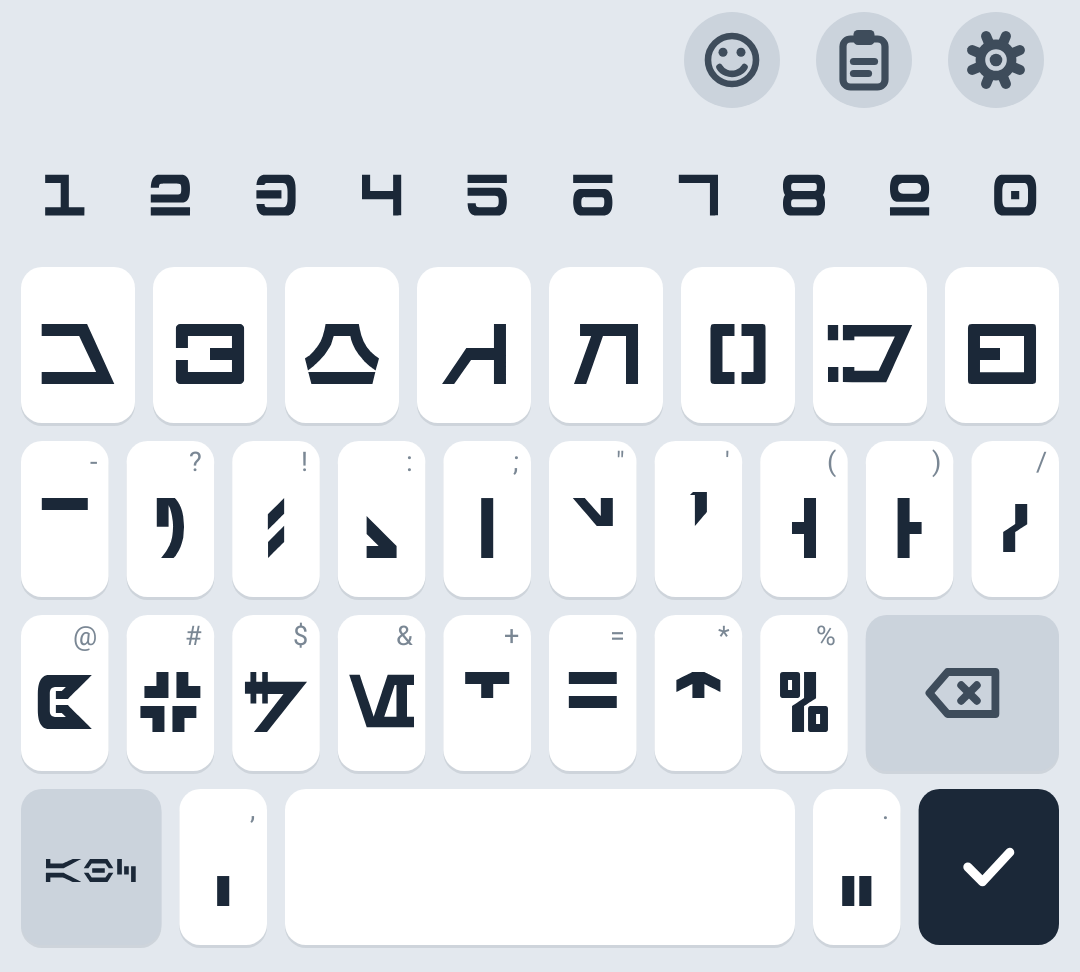
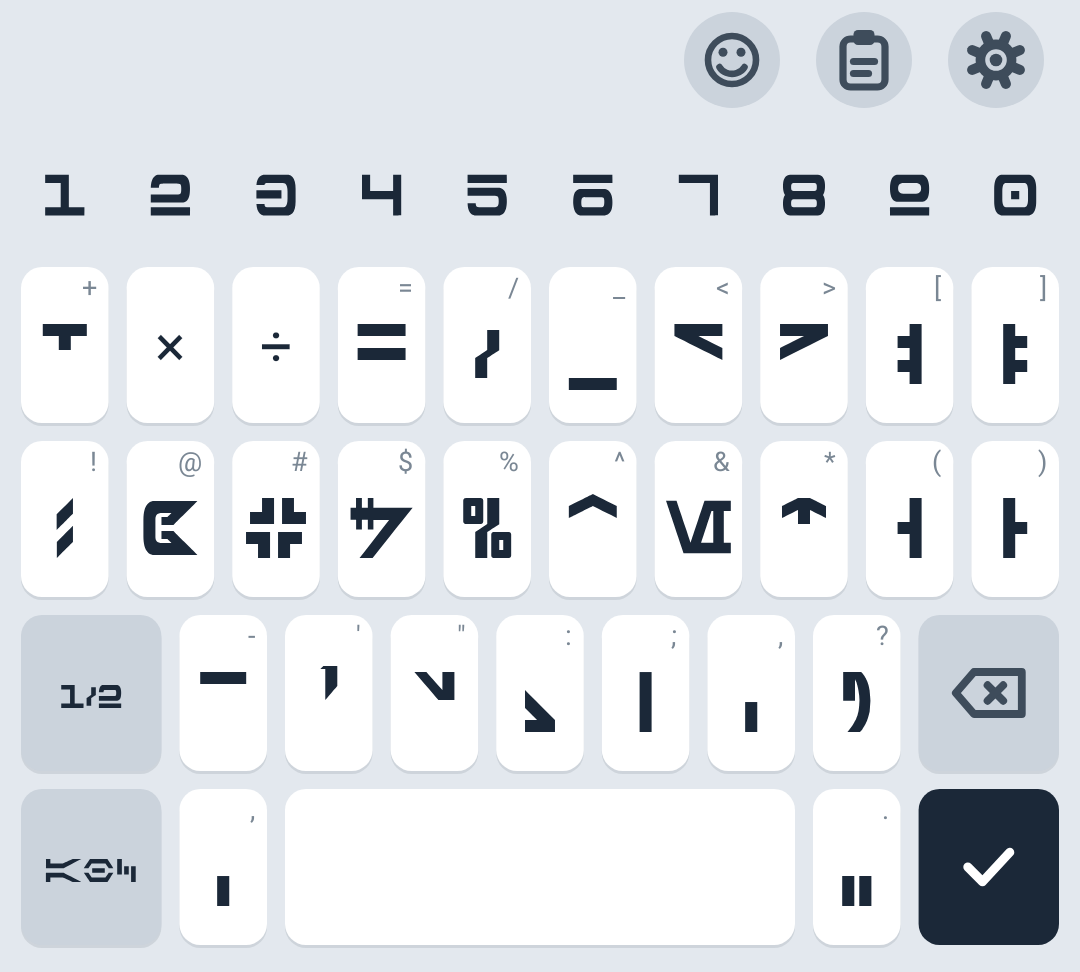
1.8.1: página ?123 con la distribución de Samsung Keyboard y segunda página 2/2
- Signos 1/2: 1234567890 / + × ÷ = / _ < > [ ] / ! @ # $ % ^ & * ( ) / 1/2 - ' " : ; , ? ⌫, con . en la fila
  inferior, como en Samsung Keyboard; alternativas por pulsación larga (¡ ¿ € ± ≠ ≤ ≥ { } \ – ‘ “ ‰ •).
- Signos 2/2: dígrafos Aurebesh, ¿ ¡ « » { } | \ ~ • y £ € ¥ ° © ® ™; tecla 1/2 ↔ 2/2 en Aurebesh.
- Prueba: posiciones de , ; : ? y ., tecleo de signos y cambio de página; captura simbolos_2.png.

Claude-Session: https://claude.ai/code/session_0169nLUo7BxaBWms1Bxz2s9J

diff --git a/app/src/main/java/com/aurebesh/teclado/AurebeshKeyboardView.java b/app/src/main/java/com/aurebesh/teclado/AurebeshKeyboardView.java
@@ -33,6 +33,7 @@ public final class AurebeshKeyboardView extends View {
     static final int CODE_TEXT = 0;
     static final int CODE_SHIFT = -1;
     static final int CODE_MODE = -2;
+    static final int CODE_PAGE = -3;      // 1/2 <-> 2/2 en la pagina de signos
     static final int CODE_ENTER = -4;
     static final int CODE_DELETE = -5;
     static final int CODE_SPACE = -6;
@@ -79,7 +80,8 @@ public final class AurebeshKeyboardView extends View {
 
     private Listener listener;
     private final List<List<Key>> letters = new ArrayList<>();
-    private final List<List<Key>> symbols = new ArrayList<>();
+    private final List<List<Key>> symbols = new ArrayList<>();    // signos 1/2 (como Samsung Keyboard)
+    private final List<List<Key>> symbols2 = new ArrayList<>();   // signos 2/2: digrafos, ¿ ¡ « » y mas simbolos
     private List<List<Key>> current;
 
     private boolean shift = false;
@@ -185,11 +187,12 @@ public final class AurebeshKeyboardView extends View {
         applyTheme();
         if (numberRow != numbers) {
             numberRow = numbers;
-            boolean onSymbols = current == symbols;
+            List<List<Key>> was = current;
             letters.clear();
             symbols.clear();
+            symbols2.clear();
             buildLayouts();
-            current = onSymbols ? symbols : letters;
+            current = was == symbols ? symbols : was == symbols2 ? symbols2 : letters;
             requestLayout();
         }
         if (showStrip != strip) {
@@ -226,11 +229,12 @@ public final class AurebeshKeyboardView extends View {
         String l = "en".equals(lang) ? "en" : "es";
         if (l.equals(language)) return;
         language = l;
-        boolean onSymbols = current == symbols;
+        List<List<Key>> was = current;
         letters.clear();
         symbols.clear();
+        symbols2.clear();
         buildLayouts();
-        current = onSymbols ? symbols : letters;
+        current = was == symbols ? symbols : was == symbols2 ? symbols2 : letters;
         requestLayout();
         invalidate();
     }
@@ -276,11 +280,12 @@ public final class AurebeshKeyboardView extends View {
     }
 
     private void rebuildLayouts() {
-        boolean onSymbols = current == symbols;
+        List<List<Key>> was = current;
         letters.clear();
         symbols.clear();
+        symbols2.clear();
         buildLayouts();
-        current = onSymbols ? symbols : letters;
+        current = was == symbols ? symbols : was == symbols2 ? symbols2 : letters;
         requestLayout();
         invalidate();
     }
@@ -357,15 +362,26 @@ public final class AurebeshKeyboardView extends View {
         letters.add(r3);
         bottomRow(letters, "?123");
 
+        // Signos 1/2: la misma distribucion que Samsung Keyboard (, ; : ? en la cuarta fila, . abajo)
         symbols.add(digitsRow());
+        row(symbols, sym("+", 1f, "\u00b1"), sym("\u00d7", 1f), sym("\u00f7", 1f), sym("=", 1f, "\u2260"), sym("/", 1f, "\\"),
+                sym("_", 1f), sym("<", 1f, "\u2264"), sym(">", 1f, "\u2265"), sym("[", 1f, "{"), sym("]", 1f, "}"));
+        row(symbols, sym("!", 1f, "\u00a1"), sym("@", 1f), sym("#", 1f), sym("$", 1f, "\u20ac"), sym("%", 1f, "\u2030"),
+                sym("^", 1f), sym("&", 1f), sym("*", 1f, "\u2022"), sym("(", 1f), sym(")", 1f));
+        row(symbols, special("1/2", CODE_PAGE, 1.5f), sym("-", 1f, "\u2013"), sym("'", 1f, "\u2018"), sym("\"", 1f, "\u201c"),
+                sym(":", 1f), sym(";", 1f), sym(",", 1f), sym("?", 1f, "\u00bf"), special("", CODE_DELETE, 1.5f));
+        bottomRow(symbols, "abc");
+
+        // Signos 2/2: digrafos Aurebesh, signos del espanol y simbolos menos frecuentes
+        symbols2.add(digitsRow());
         List<Key> dig = new ArrayList<>();
         for (String d : Glyphs.DIGRAPHS) dig.add(new Key(d, d, d, null, CODE_TEXT, 1.25f));
-        symbols.add(dig);
-        row(symbols, sym("-", 1f, "_"), sym("?", 1f, "\u00bf"), sym("!", 1f, "\u00a1"), sym(":", 1f), sym(";", 1f),
-                sym("\"", 1f, "\u00ab"), sym("'", 1f, "\u00bb"), sym("(", 1f, "["), sym(")", 1f, "]"), sym("/", 1f, "\\"));
-        row(symbols, sym("@", 1f), sym("#", 1f, "~"), sym("$", 1f, "\u20ac"), sym("&", 1f, "|"), sym("+", 1f),
-                sym("=", 1f), sym("*", 1f), sym("%", 1f), special("", CODE_DELETE, 2f));
-        bottomRow(symbols, "abc");
+        symbols2.add(dig);
+        row(symbols2, sym("\u00bf", 1f), sym("\u00a1", 1f), sym("\u00ab", 1f), sym("\u00bb", 1f), sym("{", 1f), sym("}", 1f),
+                sym("|", 1f), sym("\\", 1f), sym("~", 1f), sym("\u2022", 1f));
+        row(symbols2, special("2/2", CODE_PAGE, 1.5f), sym("\u00a3", 1f), sym("\u20ac", 1f), sym("\u00a5", 1f), sym("\u00b0", 1f),
+                sym("\u00a9", 1f), sym("\u00ae", 1f), sym("\u2122", 1f), special("", CODE_DELETE, 1.5f));
+        bottomRow(symbols2, "abc");
     }
 
     private void bottomRow(List<List<Key>> layout, String modeLabel) {
@@ -380,6 +396,12 @@ public final class AurebeshKeyboardView extends View {
         layout.add(r);
     }
 
+    /** Tecla de funcion del teclado actual con ese codigo (para pruebas). */
+    Key keyFor(int code) {
+        for (List<Key> row : current) for (Key k : row) if (k.code == code) return k;
+        return null;
+    }
+
     /** Tecla del teclado actual que escribe {@code output} (para pruebas). */
     Key keyFor(String output) {
         for (List<Key> row : current) for (Key k : row) if (output.equals(k.output)) return k;
@@ -390,7 +412,7 @@ public final class AurebeshKeyboardView extends View {
 
     private float stripHeight() { return toolbar || showStrip || suggestionBar ? 40 * dp : 4 * dp; }
     private boolean isDigitRow(List<List<Key>> layout, int ri) {
-        return ri == 0 && (numberRow || layout == symbols);
+        return ri == 0 && (numberRow || layout == symbols || layout == symbols2);
     }
 
     /** En apaisado las filas son mas bajas para no tapar media pantalla. */
@@ -417,6 +439,7 @@ public final class AurebeshKeyboardView extends View {
         super.onLayout(changed, l, t, r, b);
         layoutKeys(letters);
         layoutKeys(symbols);
+        layoutKeys(symbols2);
     }
 
     private void layoutKeys(List<List<Key>> layout) {
@@ -499,7 +522,7 @@ public final class AurebeshKeyboardView extends View {
                     textPaint.setTextSize(19 * dp);
                     c.drawText(k.label, cx, cy + 7 * dp, textPaint);
                 }
-                boolean symbolKey = current == symbols && k.glyph != null && !digitRow
+                boolean symbolKey = current != letters && k.glyph != null && !digitRow
                         && k.label.length() == 1 && !Character.isLetterOrDigit(k.label.charAt(0));
                 if (symbolKey) {                                 // leyenda del signo en la pagina ?123
                     hintPaint.setTextSize(9 * sp);
@@ -521,7 +544,8 @@ public final class AurebeshKeyboardView extends View {
                 }
                 break;
             case CODE_MODE:
-                // "?123" / "abc" escritos en Aurebesh pequeño
+            case CODE_PAGE:
+                // "?123" / "abc" / "1/2" escritos en Aurebesh pequeño
                 drawMiniWord(c, k.label, cx, cy, 10 * dp);
                 break;
             case CODE_SHIFT: drawShift(c, cx, cy); break;
@@ -770,7 +794,7 @@ public final class AurebeshKeyboardView extends View {
 
     /** Iconos redondos a la derecha: emojis, portapapeles y, en ?123, ajustes. Devuelve el limite izquierdo. */
     private float drawToolbar(Canvas c) {
-        int n = current == symbols ? 3 : 2;
+        int n = current != letters ? 3 : 2;
         float cell = 44 * dp, cy = stripHeight() / 2f;
         float x = getWidth() - 6 * dp - cell * n;
         float left = x;
@@ -1008,6 +1032,10 @@ public final class AurebeshKeyboardView extends View {
             }
             case CODE_MODE:
                 current = current == letters ? symbols : letters;
+                requestLayout();
+                break;
+            case CODE_PAGE:
+                current = current == symbols ? symbols2 : symbols;
                 requestLayout();
                 break;
         }

diff --git a/screenshot-test/src/test/java/com/aurebesh/teclado/ScreenshotTest.java b/screenshot-test/src/test/java/com/aurebesh/teclado/ScreenshotTest.java
@@ -209,6 +209,24 @@ public class ScreenshotTest {
         tap(kb, W - 28 * dp, 20 * dp);
         if (!typed.toString().equals("<tool3>")) throw new AssertionError("engrane: " + typed);
         typed.setLength(0);
+        // Signos como en Samsung Keyboard: , ; : ? en la cuarta fila y . en la fila inferior; 1/2 abre la segunda pagina
+        AurebeshKeyboardView.Key comma = kb.keyFor(","), semi = kb.keyFor(";"), colon = kb.keyFor(":"), quest = kb.keyFor("?"), dot = kb.keyFor(".");
+        AurebeshKeyboardView.Key page = kb.keyFor(AurebeshKeyboardView.CODE_PAGE);
+        if (comma == null || semi == null || colon == null || quest == null || dot == null || page == null) throw new AssertionError("signos");
+        if (!(comma.rect.top == page.rect.top && semi.rect.top == page.rect.top && colon.rect.top == page.rect.top && quest.rect.top == page.rect.top))
+            throw new AssertionError("fila de signos");
+        if (!(dot.rect.top > page.rect.top && comma.rect.left < quest.rect.left)) throw new AssertionError("orden de signos");
+        for (String ch : new String[]{",", ";", ":", "?", "."}) { AurebeshKeyboardView.Key k = kb.keyFor(ch); tap(kb, k.rect.centerX(), k.rect.centerY()); }
+        if (!typed.toString().equals(",;:?.")) throw new AssertionError("signos tecleados: " + typed);
+        typed.setLength(0);
+        tap(kb, page.rect.centerX(), page.rect.centerY());   // 1/2 -> 2/2
+        render(kb);
+        save(render(kb), "simbolos_2.png");
+        if (kb.keyFor("ch") == null || kb.keyFor("\u00bf") == null || kb.keyFor("\u20ac") == null) throw new AssertionError("pagina 2");
+        AurebeshKeyboardView.Key page2 = kb.keyFor(AurebeshKeyboardView.CODE_PAGE);
+        tap(kb, page2.rect.centerX(), page2.rect.centerY());   // 2/2 -> 1/2
+        render(kb);
+        if (kb.keyFor("ch") != null) throw new AssertionError("vuelta a 1/2");
         tap(kb, 30 * dp, modeY);                       // abc
         render(kb);
 

diff --git a/README.md b/README.md
@@ -51,10 +51,13 @@ escribes.
   falta cerrar y abrir el teclado.
 - QWERTY con ñ y fila de numerales Aurebesh (desactivable; sin ella, q…p dan 1…0 en pulsación larga, con el
   número insinuado en la esquina). Pulsación larga = **menú de alternativas** deslizable, como en Gboard:
-  vocales → á à ä â ã…, n → ñ, c → ç, `,`/`.` → `¿`/`?`; en `?123`, `?` y `!` dan `¿` y `¡` y los signos
-  tienen alternativas (`_ « » [ ] \ ~ € |`).
+  vocales → á à ä â ã…, n → ñ, c → ç, `,`/`.` → `¿`/`?`; en `?123`, `?` y `!` dan `¿` y `¡`, `$` da `€`, `"` y `'`
+  dan comillas tipográficas, `[ ]` dan `{ }` y `/` da `\`.
 - Mayúscula automática al inicio de frase; doble toque en ⇧ = bloqueo.
-- `?123`: signos con glifo propio, dígrafos Aurebesh (ch, ae, eo, kh, ng, oo, sh, th) y símbolos latinos.
+- `?123` con la **misma distribución que Samsung Keyboard**: `1234567890` / `+ × ÷ = / _ < > [ ]` / `! @ # $ % ^ & * ( )` /
+  `1/2 - ' " : ; , ?` y `. ` en la fila inferior; la página `2/2` trae los dígrafos Aurebesh (ch, ae, eo, kh, ng, oo, sh,
+  th), `¿ ¡ « » { } | \ ~ •` y `£ € ¥ ° © ® ™`. Los signos con glifo Aurebesh llevan su leyenda latina en la esquina;
+  los que no lo tienen (× ÷ € £…) se muestran en latino.
 - Burbuja al pulsar con el glifo grande y la letra latina (para aprender el alfabeto).
 - Opciones: tema, tamaño del teclado (4 niveles), modo a una mano, barra de herramientas, letra latina en las teclas
   (con las alternativas de pulsación larga), barra de traducción, dígrafos, fila de números, autocorrección, punto con
